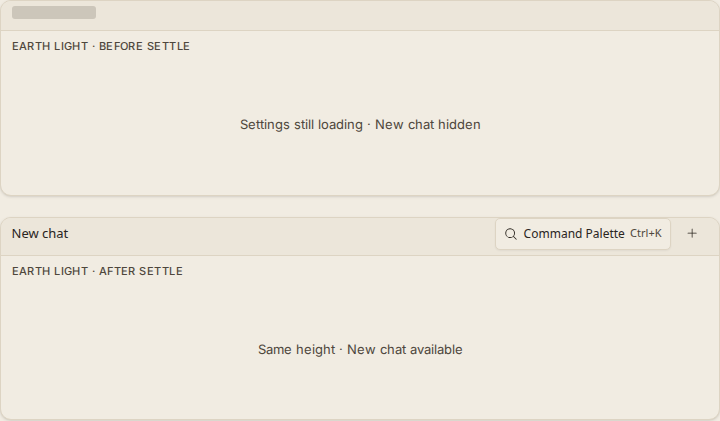
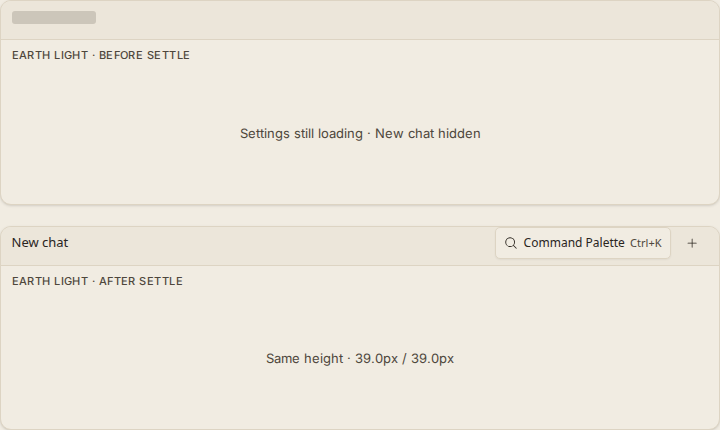
fix: lock Chat top bar placeholder to the real 39px height
The placeholder sat on min-h-[30px] while New chat is h-[32px] plus
pb-1.5 and a 1px border. CHAT_TOP_BAR_BAND_CLASS is now box-border
h-[39px] for both bands. Placeholder also starts a window drag.

QA: pnpm test 7618 passed / 1 skipped; pnpm typecheck; pnpm lint.
Measured placeholder 39.0px / ready 39.0px / narrow 39.0px.
Shots: docs/review-shots/audit-chat/{graphite,earth}-topbar-loading.png.
Localization: none — English only (C18).
PostHog: no event needed because this is reserved chrome, not a new action.
ADRs: none.
Docs: session handoff only.

diff --git a/scripts/audit-chat-shots.tsx b/scripts/audit-chat-shots.tsx
@@ -195,6 +195,38 @@ export function Shot() {
     })
   }, [])
 
+  useEffect(() => {
+    if (state !== 'topbar-loading') return
+    const placeholder = document.querySelector<HTMLElement>('[data-testid="topbar-before"] [data-chat-top-bar="placeholder"]')
+    const ready = document.querySelector<HTMLElement>('[data-testid="topbar-after"] [data-chat-top-bar="ready"]')
+    const narrow = document.querySelector<HTMLElement>('[data-testid="topbar-narrow"] [data-chat-top-bar="ready"]')
+    const placeholderHeight = placeholder?.getBoundingClientRect().height ?? Number.NaN
+    const readyHeight = ready?.getBoundingClientRect().height ?? Number.NaN
+    const narrowHeight = narrow?.getBoundingClientRect().height ?? Number.NaN
+    console.log(`placeholder height: ${placeholderHeight}`)
+    console.log(`ready height: ${readyHeight}`)
+    console.log(`narrow height: ${narrowHeight}`)
+    if (Math.abs(placeholderHeight - readyHeight) > 0.5) {
+      throw new Error(`top bar heights differ: placeholder ${placeholderHeight} vs ready ${readyHeight}`)
+    }
+    if (Math.abs(readyHeight - narrowHeight) > 0.5) {
+      throw new Error(`narrow top bar height differs: ${narrowHeight} vs ready ${readyHeight}`)
+    }
+    if (ready && ready.scrollHeight > ready.clientHeight + 0.5) {
+      throw new Error(`ready bar clipped: scroll ${ready.scrollHeight} client ${ready.clientHeight}`)
+    }
+    if (narrow && narrow.scrollHeight > narrow.clientHeight + 0.5) {
+      throw new Error(`narrow bar clipped: scroll ${narrow.scrollHeight} client ${narrow.clientHeight}`)
+    }
+    const root = document.querySelector('[data-testid="audit-chat-shot"]')
+    root?.setAttribute('data-placeholder-height', String(placeholderHeight))
+    root?.setAttribute('data-ready-height', String(readyHeight))
+    const caption = document.querySelector('[data-testid="topbar-height-caption"]')
+    if (caption) {
+      caption.textContent = `Same height · ${placeholderHeight.toFixed(1)}px / ${readyHeight.toFixed(1)}px`
+    }
+  }, [])
+
   const nativeBar = (
     <PrimeSessionSubhead
       live={false}
@@ -361,9 +393,10 @@ export function Shot() {
   }
 
   if (state === 'topbar-loading') {
-    const pane = (label: string, bar: ReactNode, caption: string) => (
+    const pane = (label: string, bar: ReactNode, caption: string, testId: string, captionTestId?: string) => (
       <div
         className="overflow-hidden rounded-xl border border-border shadow-sm"
+        data-testid={testId}
         style={{ background: 'var(--surface-app)' }}
       >
         {bar}
@@ -373,7 +406,10 @@ export function Shot() {
             {' · '}
             {label}
           </p>
-          <div className="flex h-36 items-center justify-center text-[13px] text-muted-foreground">
+          <div
+            className="flex h-36 items-center justify-center text-[13px] text-muted-foreground"
+            data-testid={captionTestId}
+          >
             {caption}
           </div>
         </div>
@@ -385,12 +421,25 @@ export function Shot() {
           data-testid="audit-chat-shot"
           data-theme={theme}
           data-state={state}
-          className="flex min-h-screen items-start justify-center p-8"
+          className="relative flex min-h-screen items-start justify-center p-8"
           style={{ background: 'var(--surface-app)' }}
         >
-          <div className="flex w-[720px] flex-col gap-6">
-            {pane('Before settle', loadingBar, 'Settings still loading · New chat hidden')}
-            {pane('After settle', nativeBar, 'Same height · New chat available')}
+          <div
+            className="pointer-events-none absolute left-[-999px] w-[280px]"
+            data-testid="topbar-narrow"
+            aria-hidden="true"
+          >
+            <PrimeSessionSubhead
+              live={false}
+              showSessionStatus={false}
+              sessionTitle={LONG_HEADER_TITLE}
+              onNewChat={() => {}}
+              onOpenCommandPalette={() => {}}
+            />
+          </div>
+          <div className="flex w-[720px] flex-col gap-6" data-testid="topbar-frames">
+            {pane('Before settle', loadingBar, 'Settings still loading · New chat hidden', 'topbar-before')}
+            {pane('After settle', nativeBar, 'Same height · measuring', 'topbar-after', 'topbar-height-caption')}
           </div>
         </div>
       </TooltipProvider>

diff --git a/src/components/ChatHome.test.tsx b/src/components/ChatHome.test.tsx
@@ -93,6 +93,7 @@ vi.mock('../hooks/usePrimeActiveSessionTitle', () => ({
 }))
 
 import ChatHome from './ChatHome'
+import { CHAT_TOP_BAR_BAND_CLASS } from './PrimeSessionSubhead'
 import { loadChatNoteContent } from '../utils/loadChatNoteContent'
 
 function livePrimeHost() {
@@ -176,6 +177,8 @@ describe('ChatHome', () => {
   })
 
   it('reserves the Chat top bar height before the engine settles', () => {
+    expect(CHAT_TOP_BAR_BAND_CLASS).toContain('h-[39px]')
+    expect(CHAT_TOP_BAR_BAND_CLASS).toContain('box-border')
     const props = {
       locale: 'en' as const,
       defaultAiAgent: 'prime' as const,
@@ -192,7 +195,7 @@ describe('ChatHome', () => {
     expect(placeholder).toHaveAttribute('data-chat-top-bar', 'placeholder')
     expect(placeholder).toHaveAttribute('aria-hidden', 'true')
     expect(placeholder).toHaveAttribute('data-sheet-offset-band', 'content')
-    expect(placeholder).toHaveClass('app-titlebar-band', 'min-h-[30px]')
+    expect(placeholder).toHaveClass('app-titlebar-band', 'box-border', 'h-[39px]')
     expect(placeholder.querySelector('button')).toBeNull()
     expect(screen.queryByRole('button', { name: 'New chat' })).toBeNull()
 
@@ -200,7 +203,7 @@ describe('ChatHome', () => {
     const ready = screen.getByTestId('prime-session-subhead')
     expect(ready).toHaveAttribute('data-chat-top-bar', 'ready')
     expect(ready).toHaveAttribute('data-sheet-offset-band', 'content')
-    expect(ready).toHaveClass('app-titlebar-band', 'min-h-[30px]')
+    expect(ready).toHaveClass('app-titlebar-band', 'box-border', 'h-[39px]')
     expect(screen.queryByTestId('chat-top-bar')).toBeNull()
     expect(screen.getByRole('button', { name: 'New chat' })).toBeTruthy()
   })
@@ -617,6 +620,7 @@ describe('ChatHome composer wiring', () => {
     expect(chatHomeSource).toContain(
       'const showChatTopBarPlaceholder = !engineChromeReady && showChatTopBarSlot',
     )
+    expect(chatHomeSource).toContain('onMouseDown={onDragRegionMouseDown}')
     expect(chatHomeSource).toContain('onSessionHeader={handleSessionHeader}')
     expect(chatHomeSource).toContain('forkTargetsPrimeEntry={panelEngine === \'prime\'}')
   })

diff --git a/src/components/ChatHome.tsx b/src/components/ChatHome.tsx
@@ -3,6 +3,7 @@ import { AiPanel } from './AiPanel'
 import { CHAT_TOP_BAR_BAND_CLASS, PrimeSessionSubhead } from './PrimeSessionSubhead'
 import { overlayTitleBarBandStyle } from '../utils/trafficLights'
 import { SHEET_OFFSET_BAND_ATTR } from '../hooks/useNotesSheetOffset'
+import { useDragRegion } from '../hooks/useDragRegion'
 import { AgentActivityBand } from './AgentActivityBand'
 import { RlmFamilyBand } from './RlmFamilyBand'
 import { ChatComposerDeck } from './ChatComposerDeck'
@@ -196,6 +197,7 @@ export default function ChatHome({
     sessionTitleRefreshKey(primeHost?.isStreaming, sessionPath),
   )
   const sessionTitle = listedTitle ?? sessionMeta.title
+  const { onMouseDown: onDragRegionMouseDown } = useDragRegion<HTMLDivElement>()
   const newChatRef = useRef<(() => void) | null>(null)
   const [openNote, setOpenNote] = useState<{ path: string; label: string } | null>(null)
   // One read of the open note, shared by the pane and the agent. Chat used to
@@ -243,6 +245,7 @@ export default function ChatHome({
           data-testid="chat-top-bar"
           {...{ [SHEET_OFFSET_BAND_ATTR]: 'content' }}
           style={overlayTitleBarBandStyle(railLayoutWidth)}
+          onMouseDown={onDragRegionMouseDown}
         >
           <span className="h-[13px] w-24 max-w-[40%] rounded-sm bg-muted-foreground/20" />
         </div>

diff --git a/src/components/PrimeSessionSubhead.tsx b/src/components/PrimeSessionSubhead.tsx
@@ -15,8 +15,13 @@ import {
   tildeVaultPath,
 } from '../lib/primeSubheadLabels'
 
+// New chat / Command Palette are h-[32px]. Band padding is pb-1.5 (6px at
+// a 16px rem, 5.25px at this app's 14px root). The title band paints a 1px
+// bottom border. box-border height = 32 + 6 + 1 so the buttons still fit
+// when rem is 16px, and have slack at 14px. Both the placeholder and the
+// real strip use this class, so they match by definition.
 export const CHAT_TOP_BAR_BAND_CLASS = [
-  'app-titlebar-band flex min-h-[30px] shrink-0 items-center gap-2.5 pb-1.5 pr-3',
+  'app-titlebar-band box-border flex h-[39px] min-h-[39px] shrink-0 items-center gap-2.5 pb-1.5 pr-3',
   'select-none',
   'pl-[var(--subhead-traffic-light-inset,0.75rem)]',
 ].join(' ')

diff --git a/docs/plans/handoffs/2026-10-17-1435-cursor-grok-4-6-audit-chat-topbar-height.md b/docs/plans/handoffs/2026-10-17-1435-cursor-grok-4-6-audit-chat-topbar-height.md
@@ -1,0 +1,16 @@
+---
+session: 2026-10-17T14:35Z
+model: Cursor Grok 4.6
+description: >-
+  Lock Chat top bar placeholder and real strip to one 39px box-border height
+  so settle no longer drops the transcript.
+commits: cursor/audit-chat-ui-2269
+---
+
+# Audit chat top-bar height
+
+**Origin:** Cursor Grok 4.6 · 2026-10-17 · Critiquito HOLD on #209 at 2ac9bb29.
+
+`CHAT_TOP_BAR_BAND_CLASS` is now `box-border h-[39px]`: 32px New chat +
+`pb-1.5` + 1px border. Placeholder and real strip share it. Measured
+39.0px / 39.0px. Placeholder uses the same window-drag handler.
